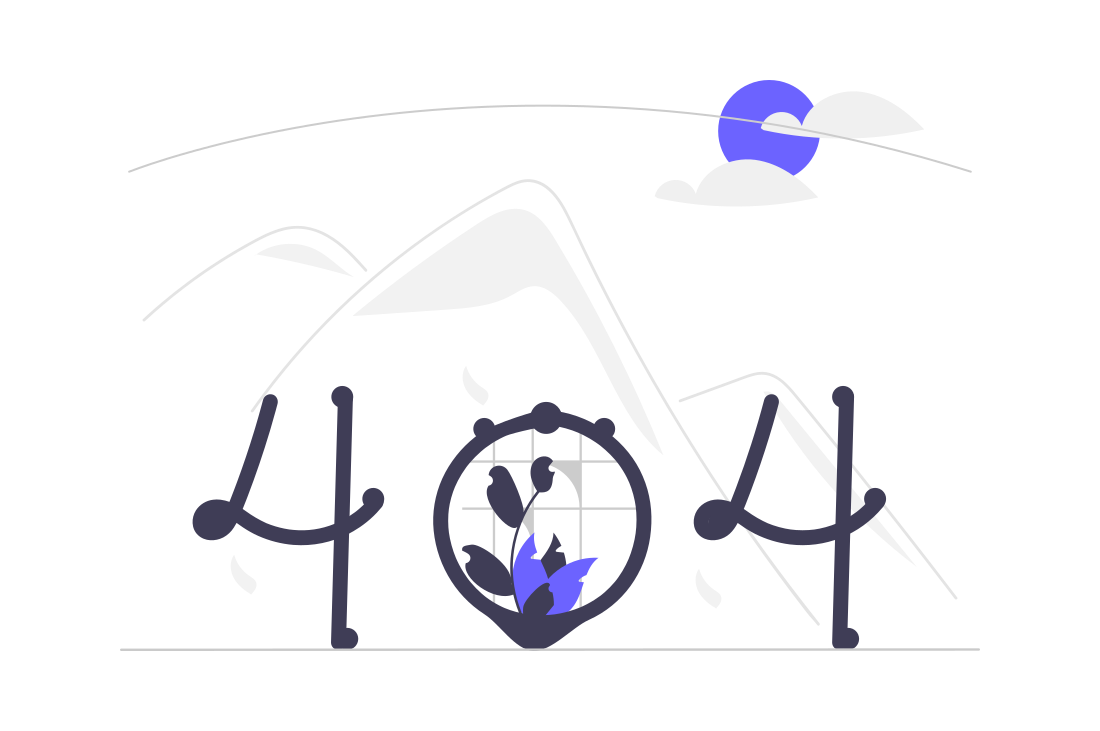
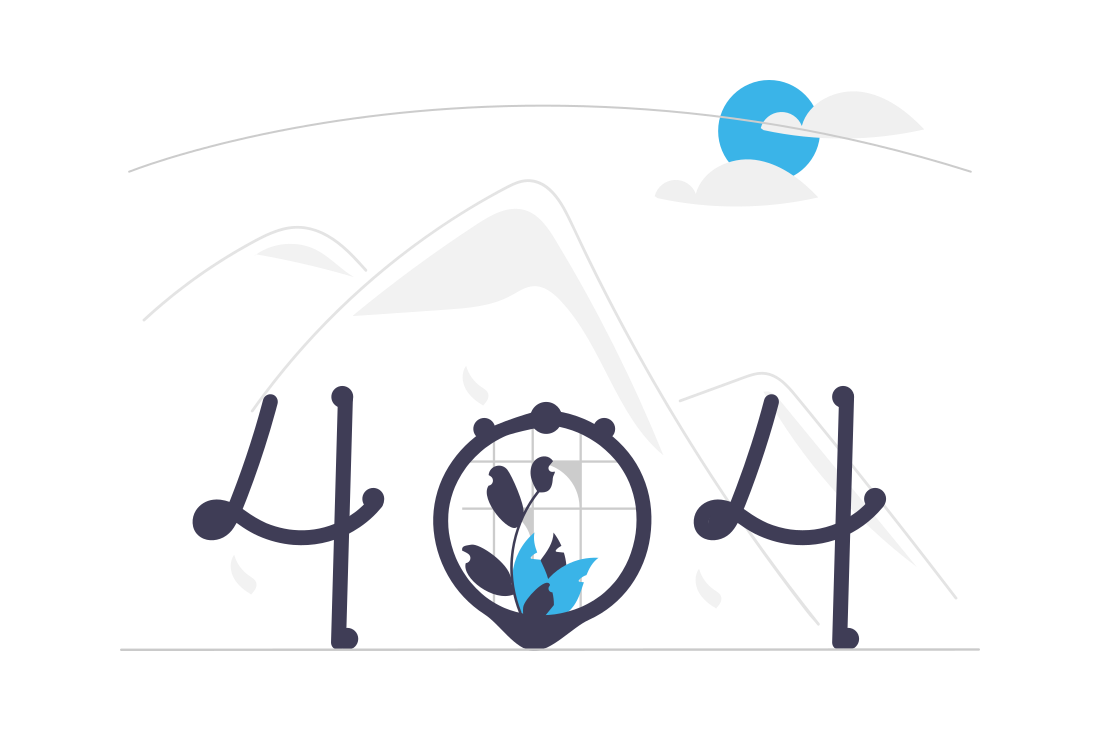
update: halaman comingsoon dan not found

Changed region(s): [[0.6491, 0.0903, 0.7418, 0.2408], [0.4636, 0.7223, 0.5564, 0.8427]]

diff --git a/src/pages/404.tsx b/src/pages/404.tsx
@@ -2,9 +2,9 @@ import Image from "next/image";
 
 const Custom404 = () => {
   return (
-    <div className="w-screen h-screen text-[#6C63FF] flex items-center justify-center flex-col space-y-5">
+    <div className="w-screen h-screen text-primary-500 flex items-center justify-center flex-col space-y-5">
       {/* <img className="w-1/2" src="/not_found.png" alt="404" /> */}
-      <Image src={"/images/not_found.png"} alt={"404"} width={600} height={600} className="w-1/2" />
+      <Image src={"/svg/not_found.svg"} alt={"404"} width={600} height={600} className="max-w-md" />
       <h1>Halaman Tidak Ditemukan</h1>
     </div>
   );

diff --git a/src/pages/index.tsx b/src/pages/index.tsx
@@ -54,7 +54,7 @@ const App = () => {
       </Head>
       <div className="relative h-screen overflow-hidden">
         <ParticleCustom />
-        <div className="w-screen absolute z-10 bottom-1/3">
+        <div className="w-screen absolute z-10 max-lg:top-1/3 lg:bottom-1/3 ">
           <div className="mx-auto bg-neutral-500 rounded-xl shadow-xl shadow-blue-500/50 flex-col space-y-4 lg:space-y-6 text-white px-3 lg:px-8 py-5 lg:py-10 w-fit ">
             <div>
               <h1 className="text-lg min-[500px]:text-2xl font-semibold lg:text-3xl">Haiii...What&apos;s your name???😁😁</h1>

diff --git a/src/components/layouts/Navbar/index.tsx b/src/components/layouts/Navbar/index.tsx
@@ -9,7 +9,7 @@ export default function NavbarCustom() {
   const menuItems = ["Profile", "Dashboard", "Activity", "Analytics", "System", "Deployments", "My Settings", "Team Settings", "Help & Feedback", "Log Out"];
 
   return (
-    <Navbar disableAnimation isBordered>
+    <Navbar disableAnimation isBordered className="text-accent-500 bg-neutral-500 py-2 " >
       <NavbarContent className="sm:hidden" justify="center">
       <NavbarMenuToggle icon={(isOpen) => isOpen ? <FontAwesomeIcon icon={faBars} /> : <FontAwesomeIcon icon={faX} />}  />
       </NavbarContent>

diff --git a/src/components/views/ComingSoon/index.tsx b/src/components/views/ComingSoon/index.tsx
@@ -1,0 +1,13 @@
+import Image from "next/image";
+
+const ComingSoon = () => {
+  return (
+    <div className="w-screen h-screen text-primary-500 flex items-center justify-center flex-col space-y-5 ">
+      {/* <img className="w-1/2" src="/not_found.png" alt="404" /> */}
+      <Image src={"/svg/under_construction.svg"} alt={"404"} width={600} height={600} className="max-w-md" />
+      <h1>Halaman Dalam Pengembangan</h1>
+    </div>
+  );
+};
+
+export default ComingSoon;

diff --git a/src/pages/home/index.tsx b/src/pages/home/index.tsx
@@ -1,11 +1,13 @@
+/* eslint-disable @typescript-eslint/no-unused-vars */
 import { useSession } from "next-auth/react";
+import ComingSoon from "@/components/views/ComingSoon";
 
 const Home = () => {
   const { data } = useSession();
   // console.log(data);
   return (
-    <div>
-      <h1>{data?.user?.name}</h1>
+    <div className="overflow-hidden">
+      <ComingSoon />
     </div>
   );
 };
